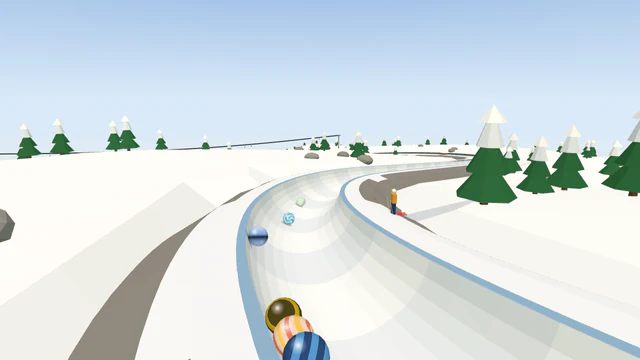
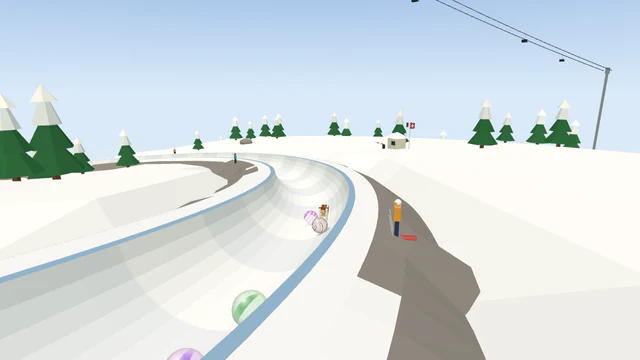
Portes du Soleil Run: its own layout; its records start again
Until now nearly the same track as Åre Run and Greenland Expedition. Its
classic start down from Avoriaz past the cows kept (the field now let go in
waves), a sweep across the border under the chairlift, down the Swiss Wall
from Chavanette (the big feature and signature), the hairpin, S-bends into the
Swiss village, the forest spiral and the run to the square. Full report
50/50; Wild 45. Data updates 2027-07-26. Off the known failures.

Claude-Session: https://claude.ai/code/session_011vSSkqNPL9kncfzrwF15wS

diff --git a/src/tracks/portes-du-soleil-run.js b/src/tracks/portes-du-soleil-run.js
@@ -4,8 +4,8 @@
 // border and down the Swiss Wall to a Swiss village square. Moses's design
 // ("New Track Designs", 6), built with the track kit.
 const {
-  track, plunge, straight, sBends, sweep, spiral, hairpin, splitter, runIn,
-  block, pileUp, parked, slalom, boost, moguls,
+  track, opening, plunge, straight, sBends, sweep, spiral, hairpin, runIn,
+  parked, slalom, moguls, peg, brake,
 } = require('../trackKit');
 
 module.exports = track({
@@ -18,42 +18,55 @@ module.exports = track({
   lighting: 'day',
   signature: 'The Swiss Wall',
   tvCameras: [
-    { section: 'The Swiss Wall', at: 0.8, side: 'left', distance: 6, height: 8 },
-    { section: 'Splitter', at: 0.8, side: 'left', distance: 6, height: 5 },
+    // (At the foot of the Wall, looking back up it at the field coming down.)
+    { section: 'Run to the hairpin', at: 0.2, side: 'left', distance: 6, height: 8 },
+    { section: 'Forest spiral', at: 0.6, side: 'left', distance: 6, height: 8 },
   ],
   billboardFrame: 'wood',
   // The gate in Avoriaz among its wood-clad buildings, the Dents du Midi on the horizon; the
   // finish in a Swiss village square, chalets with flower boxes round it and a church spire.
   start: { scenery: ['wood-clad'], gate: 'stalls', shots: { countdown: 'side', launch: 'overhead' } },
   designChanges: [
-    'A 50 m straight, "Run to the hairpin", before the hairpin: the recipe needs a braking zone before the one sharp bend.',
-    'Cows wandered onto the Avoriaz plunge (a pile-up before the slalom gates): without it the strongest marbles win too often, as on Åre Run.',
+    'Its own layout (Moses, 15 Nov 2026: World Tour re-layouts): down from Avoriaz past the cows, a sweep across the border under the chairlift, down the Swiss Wall from Chavanette (the big feature: the steepest stretch, low moguls down it), the hairpin, S-bends into the Swiss village, the forest spiral and the run to the square.',
+    'A straight, "Run to the hairpin", before the hairpin: the recipe needs a braking zone before the one sharp bend.',
+    'Cows wandered onto the Avoriaz plunge (a pile-up before the slalom gates): without it the strongest marbles win too often.',
   ],
   finish: { landmark: 'church', scenery: ['chalets'] },
+  // (The classic start: down from Avoriaz past the cows and through the gates; let go in jittered waves, a new
+  // order every race, as the front places won more without them.)
+  opening: opening('classic', {
+    costumes: { block: 'cow' },
+    names: { plunge: 'Avoriaz plunge' },
+    dress: { plunge: { scenery: ['wood-clad'], landmarks: [{ name: 'horse-sleigh', at: 0.5, side: 'right', distance: 20 }] } },
+    waves: { groups: 5, gap: 0.12, jitter: 0.1 },
+  }),
   sections: [
     {
-      name: 'Avoriaz plunge', shape: plunge(80, { grade: 0.6 }),
-      obstacles: [pileUp({ costume: 'cow', at: 0.42 }), slalom({ from: 0.55, to: 0.97, count: 6, loss: 0.3 })],
-      landmarks: [{ name: 'horse-sleigh', at: 0.5, side: 'right', distance: 12 }], scenery: ['wood-clad'],
+      name: 'Border sweep', shape: sweep({ side: 'right', radius: 80, degrees: 140, grade: 0.13 }), figures: ['skier', 'snowboarder', 'skier'],
+      billboards: 2, overhead: ['chairlift'], landmarks: [{ name: 'border-post', at: 0.5, side: 'left', distance: 18 }], scenery: ['pines'],
+      obstacles: [peg({ costume: 'cow', at: 0.3, line: 'left' }), peg({ costume: 'cow', at: 0.65, line: 'right' })],
     },
-    { name: 'Piste S-bends', shape: sBends({ first: 'right', radius: 75, degrees: 80, grade: 0.13 }), figures: ['skier', 'snowboarder', 'skier'], scenery: ['pines'], billboards: 1 },
-    { name: 'Splitter', shape: splitter({ side: 'right', balance: { tipOffset: 0.8, left: { drag: 0.42, scrub: 0.72 }, right: { drag: 1.42, scrub: 1.42 } } }), around: 'mountain-restaurant', scenery: ['pines'] },
+    { name: 'To Chavanette', shape: straight(40, { grade: 0.12 }), scenery: ['bare'] },
     {
-      name: 'Border sweep', shape: sweep({ side: 'left', radius: 85, degrees: 150, grade: 0.08 }), features: [boost({ at: 0.08 })],
-      billboards: 2, overhead: ['chairlift'], landmarks: [{ name: 'border-post', at: 0.5, side: 'right', distance: 10 }], scenery: ['pines'],
-    },
-    // (Not in the design: the recipe's braking zone needs a straight before the one sharp bend.)
-    { name: 'Run to the hairpin', shape: straight(50, { grade: 0.13 }), billboards: 1, scenery: ['pasture'] },
-    { name: 'Hairpin', shape: hairpin({ side: 'right' }), obstacles: [block({ costume: 'cow', line: 'high' })], scenery: ['pasture'] },
-    {
-      // The Swiss Wall (Le Mur Suisse): the steepest stretch after the start, low moguls down it.
-      name: 'The Swiss Wall', shape: plunge(120, { grade: 0.42, from: 0.16 }),
+      // The Swiss Wall (Le Mur Suisse): the track's big feature, the steepest stretch after the start, low moguls down it.
+      name: 'The Swiss Wall', shape: plunge(100, { grade: 0.42, from: 0.16 }),
       features: [moguls({ from: 0.4, to: 0.95, count: 8 })], figures: ['skier', 'skier'], scenery: ['bare'],
     },
-    { name: 'Forest spiral', shape: spiral({ side: 'right', radius: 45, grade: 0.18 }), figures: ['marmot'], scenery: ['pines'] },
+    // (Not in the design: the recipe's braking zone needs a straight before the one sharp bend.)
     {
-      name: 'Final plunge', shape: straight(90, { grade: 0.2 }),
-      obstacles: [parked({ costume: 'piste-groomer', at: 0.4, side: 'right', length: 8 })], scenery: ['chalets'],
+      name: 'Run to the hairpin', shape: straight(60, { grade: 0.13 }), scenery: ['pasture'], billboards: 1,
+      obstacles: [slalom({ from: 0.35, to: 0.7, count: 3, loss: 0.3 })],
+    },
+    { name: 'Hairpin', shape: hairpin({ side: 'left' }), scenery: ['pasture'] },
+    {
+      name: 'Village S-bends', shape: sBends({ first: 'right', radius: 70, degrees: 80, grade: 0.13 }), scenery: ['chalets'], billboards: 1,
+      obstacles: [peg({ costume: 'cow', at: 0.35, line: 'left' }), peg({ costume: 'cow', at: 0.7, line: 'right' })],
+    },
+    { name: 'Forest spiral', shape: spiral({ side: 'left', radius: 45, grade: 0.15 }), figures: ['marmot'], scenery: ['pines'] },
+    {
+      name: 'Village square run', shape: straight(75, { grade: 0.14 }), scenery: ['chalets'],
+      features: [brake({ at: 0.05, length: 10, drag: 0.02 })],
+      obstacles: [parked({ costume: 'piste-groomer', at: 0.3, side: 'right', length: 8 }), slalom({ from: 0.55, to: 0.9, count: 3, loss: 0.35 })],
     },
     { name: 'Finish', shape: runIn(), scenery: ['chalets'] },
   ],

diff --git a/test/trackKit.test.js b/test/trackKit.test.js
@@ -56,7 +56,7 @@ test('every kit track opens with Bobsleigh Run\'s starting ramp, gate, channel a
     // (The staggered drop and the varied starts let the field go in waves: their funnel has that one setting more.
     // Any other opening only where its track asks for them, listed here: Nevada Drag Strip's crest start.)
     const { waves, ...rest } = funnel;
-    if (waves) assert.ok(['staggered-drop', 'clean-drop', 'peg-drop', 'pipe-drop', 'rolling-start', 'chicane-start', 'rumble-start'].includes(t.physics.kit.opening) || ['nevada-drag-strip', 'hudson-highlands-run', 'iguazu-devils-throat', 'chao-phraya-dawn-spiral', 'blyde-potholes-spiral', 'kings-canyon-lost-city', 'huashan-plank-walk', 'etna-valle-del-bove', 'tianmen-heavens-gate', 'sunken-ruins', 'are-run', 'greenland-expedition', 'dubai-twister', 'rio-jungle-rumble', 'china-wall-twister', 'baqueira-beret-run',  'crystal-grotto', 'moon-base'].includes(t.slug), `${t.slug}: waves at the gate`);
+    if (waves) assert.ok(['staggered-drop', 'clean-drop', 'peg-drop', 'pipe-drop', 'rolling-start', 'chicane-start', 'rumble-start'].includes(t.physics.kit.opening) || ['nevada-drag-strip', 'hudson-highlands-run', 'iguazu-devils-throat', 'chao-phraya-dawn-spiral', 'blyde-potholes-spiral', 'kings-canyon-lost-city', 'huashan-plank-walk', 'etna-valle-del-bove', 'tianmen-heavens-gate', 'sunken-ruins', 'are-run', 'greenland-expedition', 'dubai-twister', 'rio-jungle-rumble', 'china-wall-twister', 'baqueira-beret-run', 'portes-du-soleil-run',  'crystal-grotto', 'moon-base'].includes(t.slug), `${t.slug}: waves at the gate`);
     if (!['funnel-drop', 'staggered-drop'].includes(t.physics.kit.opening)) assert.deepEqual(rest, tmFunnel);
     assert.deepEqual(t.physics.gate, bob.physics.gate);
     assert.equal(t.physics.collisions, true);

diff --git a/test/samenessAllTracks.test.js b/test/samenessAllTracks.test.js
@@ -34,7 +34,6 @@ const KNOWN = {
   'table-mountain-run': ['opening', 'opening-kind', 'layout'],
   // World Tour.
 
-  'portes-du-soleil-run': ['layout'],
 
   'amazon-water-run': ['layout'],
   // Grand Prix (one design: Dubai's; Stockholm, Lagos, Istanbul, Sydney, Nairobi, Delhi, Sahara and Wyrmwood Hollow have their own since 6–7 Nov 2026).

diff --git a/docs/06-decisions.md b/docs/06-decisions.md
@@ -4,7 +4,7 @@
 
 | Date | Decision | Why |
 |---|---|---|
-| 2026-11-15 | **World Tour re-layouts** (Moses, 21:20: every World Tour pack track still on the sameness test's known failures gets its own layout and opening, with a signature feature from the real place, as the Grand Prix re-layouts; then seven new World Tour tracks to fill the pack to 20). Each keeps its name, slug and look; a `--relayout` data update starts its records again (`tracks.records_since`), and a `<slug>-to-world-tour` update sets its new wildness (the pack script now takes a kit track with no series marker as World Tour, as the server does). Done: **Åre Run** (Wild 43, was Easy 29: a rumble start down the summit moguls, the hairpin, a sweep under the gondola, down the World Championship slope as the big feature, the funicular spiral; `2027-07-18-…`), **Greenland Expedition** (Wild 44: a snowdrift start, the sand-trap opening, past the sled dogs, the ice cave as the big feature, a long steep drop inside the glacier; `2027-07-19-…`), **Park City Run** (Wild 37: a rolling start from the lift station, down the old silver mine's shaft as the big feature; `2027-07-20-…`), **Dubai Twister** (Wild 39: a sand-trap start through the dunes, up a red dune and down its face, the Twister spiral round the twisting tower as the big feature; the falcon no longer swoops at the hairpin, as knocked marbles fell too far behind; `2027-07-21-…`), **Rio Jungle Rumble** (Extreme 47: a rumble start down the jungle path, the Selarón Steps, the turn right round Guanabara Bay under the cable car as the big feature; `2027-07-22-…`), **China Wall Twister** (Wild 40: a tunnel-launch start through a gate in the Wall, along the Wall and down its steps, the dragon drop as the big feature; `2027-07-23-…`), **Baqueira-Beret Run** (Wild 45: a rolling start and a wide turn across the open bowl, the bell-tower spiral, the Escornacrabes couloir as the big feature; `2027-07-24-…`), **Paris Eiffel Tower Run** (Easy 32: its classic start kept, down the Rue Lepic's cobbles, a spiral right round the Arc de Triomphe on the Étoile as the big feature; `2027-07-25-…`). Paris Eiffel Tower Run and Portes du Soleil Run keep the two classic openings the World Tour allows. (A pile-up at the gate spreads the field by about 5 s before the first bend; the re-laid tracks without one pass the report's first-to-last gap more easily.) | The old World Tour tracks were built from one design and raced alike (several pairs identical, nine with the same opening). |
+| 2026-11-15 | **World Tour re-layouts** (Moses, 21:20: every World Tour pack track still on the sameness test's known failures gets its own layout and opening, with a signature feature from the real place, as the Grand Prix re-layouts; then seven new World Tour tracks to fill the pack to 20). Each keeps its name, slug and look; a `--relayout` data update starts its records again (`tracks.records_since`), and a `<slug>-to-world-tour` update sets its new wildness (the pack script now takes a kit track with no series marker as World Tour, as the server does). Done: **Åre Run** (Wild 43, was Easy 29: a rumble start down the summit moguls, the hairpin, a sweep under the gondola, down the World Championship slope as the big feature, the funicular spiral; `2027-07-18-…`), **Greenland Expedition** (Wild 44: a snowdrift start, the sand-trap opening, past the sled dogs, the ice cave as the big feature, a long steep drop inside the glacier; `2027-07-19-…`), **Park City Run** (Wild 37: a rolling start from the lift station, down the old silver mine's shaft as the big feature; `2027-07-20-…`), **Dubai Twister** (Wild 39: a sand-trap start through the dunes, up a red dune and down its face, the Twister spiral round the twisting tower as the big feature; the falcon no longer swoops at the hairpin, as knocked marbles fell too far behind; `2027-07-21-…`), **Rio Jungle Rumble** (Extreme 47: a rumble start down the jungle path, the Selarón Steps, the turn right round Guanabara Bay under the cable car as the big feature; `2027-07-22-…`), **China Wall Twister** (Wild 40: a tunnel-launch start through a gate in the Wall, along the Wall and down its steps, the dragon drop as the big feature; `2027-07-23-…`), **Baqueira-Beret Run** (Wild 45: a rolling start and a wide turn across the open bowl, the bell-tower spiral, the Escornacrabes couloir as the big feature; `2027-07-24-…`), **Paris Eiffel Tower Run** (Easy 32: its classic start kept, down the Rue Lepic's cobbles, a spiral right round the Arc de Triomphe on the Étoile as the big feature; `2027-07-25-…`), **Portes du Soleil Run** (Wild 45: its classic start kept, now with waves, the Swiss Wall from Chavanette as the big feature; `2027-07-26-…`). Paris Eiffel Tower Run and Portes du Soleil Run keep the two classic openings the World Tour allows. (A pile-up at the gate spreads the field by about 5 s before the first bend; the re-laid tracks without one pass the report's first-to-last gap more easily.) | The old World Tour tracks were built from one design and raced alike (several pairs identical, nine with the same opening). |
 | 2026-11-15 | **Seven more Blocks 1 tracks: the Blocks 1 pack filled to 20** (Moses, 13:38: the game-world look, our own voxel worlds with retro-game touches, never another game's names, creatures, textures or falling pieces; same rules as the Canyons and Peaks; 2 Easy, 3 Wild, 2 Extreme). Built, each pushed switched off in the Blocks 1 pack, not free: **Mushroom Grove** (Easy 24: a drop off a giant mushroom's cap), **Sunken Ruins** (Easy 17: a banked turn round a sunken dome), **Clockwork Works** (Wild 39: a splitter round a giant gear), **Crystal Grotto** (Wild 44: a spiral round a crystal spire), **Jungle Ruins** (Wild 45: a waterfall drop through falling water), **Moon Base** (Extreme 60: a 66 m drop over a crater's rim), **Neon Grid** (Extreme 57: a loop over the glowing grid, 69 overtakes); data updates `2027-07-11-…` to `2027-07-17-…`; seven new worlds, `kitLandmarksBlockWorlds.js` and three Blocks 1 start types (`portal-gate`, `block-pyramid`, `gear-tower`). On phones a Block Series cube pillar is now at most 8 cubes (each taller), as Crystal Grotto's tall pillars went over the triangle budget; looks only. Status: project doc `claude/blocks-1-seven-more-status.md`. Waiting for Moses's deploy (with the Canyons and Peaks), then his look at each preview before switching on. | With them the Blocks 1 pack has 20 besides the free Spawn Point and can go on sale. |
 | 2026-11-15 | **Six more Peaks tracks: the Peaks pack filled to 20** (Moses, 09:45: same rules as the six Canyons, and 65+ overtakes on a loop track; 2 Easy, 2 Wild, 2 Extreme; six famous mountains not yet in the series, each with two signature features, unlike the World Tour's alpine resorts). Built, each pushed switched off in the Peaks pack, not free: **Half Dome Granite Slabs** (Easy 31: a drop down the granite slabs below the face), **Huayna Picchu Terraces** (Extreme 48: a splitter round a terraced hill), **Huashan Plank Walk** (Easy 20: a dramatic banked turn round the plank walk's cliff), **Eiger North Face** (Wild 43: a banked spiral round a window pillar), **Etna Valle del Bove** (Extreme 50: a drop into the Valle del Bove), **Tianmen Heaven's Gate** (Wild 41: a loop under the great arch, 69 overtakes); data updates `2027-07-05-…` to `2027-07-10-…`; six palettes and `kitLandmarksPeak2.js`; the pack script knows Peaks. Huayna came out Extreme and Huashan Easy, Etna Extreme and Tianmen Wild (planned otherwise); the mix stays 2/2/2. Status: project doc `claude/peaks-six-more-status.md`. Waiting for Moses's deploy (with the Canyons), then his look at each preview before switching on. | With them the Peaks pack has 20 besides the free Everest Icefall Run and can go on sale. |
 | 2026-11-15 | **A coaster track can have a loop** (Kings Canyon Lost City, the first): over the loop's span the coaster's rails, spine, ties and towers stop (3 m either side), as the loop draws its own track and steel along its own path; before, they ran along the ground under it, 64 m with no rim under the rails, and blocked the follow camera. The rails check (`railGaps`) now finds each rail line's first point along the whole track (by height too), so lines that start after a loop are checked where they are. Looks only: race results unchanged. | A loop in a canyon is the Canyons series' loop; the coaster kit had never met one. |

diff --git a/docs/README.md b/docs/README.md
@@ -8,7 +8,7 @@
 
 **Where it stands:**
 - **Website:** live at marblespins.com (Vercel builds every push to `Main`; production is at `548aeb8`, 15 Nov). Soft start (social media, a daily set of videos, 10–20 invited test pilots) since the week of 26 Oct. **Official launch 1 Dec 2026**, with the Holiday Season, the season pass and the apps. GA4 on since 31 Oct (after cookie consent); the Meta Pixel off.
-- **Tracks: 152 live in ten series** (World Tour, Grand Prix, Coasters, Canyons, Blocks, Track and Field, Rivers, Peaks, Pinball, Arcade), since the 9 motorsport Grand Prix tracks were switched on on 13 Nov; 191 in the database. **Switched off, waiting for Moses:** five more Rivers tracks (on the server since 13 Nov: Yukon Five Finger Run, Arno Old Bridge Run, Chao Phraya Dawn Spiral, Hudson Highlands Run, Iguazú Devil's Throat) and six more Canyons tracks (on Main, **waiting for the server deploy**: Bryce Hoodoo Run, Blyde Potholes Spiral, Taroko Marble Gorge, Samaria Iron Gates, Kings Canyon Lost City, the first coaster track with a loop, and Sumidero Christmas Falls; data updates `2027-06-29-…` to `2027-07-04-…`) and six more Peaks tracks (on Main, **waiting for the same deploy**: Half Dome Granite Slabs, Huayna Picchu Terraces, Huashan Plank Walk, Eiger North Face, Etna Valle del Bove, Tianmen Heaven's Gate; data updates `2027-07-05-…` to `2027-07-10-…`) and seven more Blocks 1 tracks (on Main, **waiting for the same deploy**: Mushroom Grove, Sunken Ruins, Clockwork Works, Crystal Grotto, Jungle Ruins, Moon Base, Neon Grid; data updates `2027-07-11-…` to `2027-07-17-…`); World Tour re-layouts (on Main, **waiting for the same deploy**; their records start again): Åre Run, Greenland Expedition, Park City Run, Dubai Twister, Rio Jungle Rumble, China Wall Twister, Baqueira-Beret Run, Paris Eiffel Tower Run (`2027-07-18-…` to `2027-07-25-…`). Moses deploys Canyons, Peaks, Blocks 1 and the World Tour work together. The 31 holiday tracks are switched on but hidden and closed until 1 Dec 00:00 Swedish time (183 live then).
+- **Tracks: 152 live in ten series** (World Tour, Grand Prix, Coasters, Canyons, Blocks, Track and Field, Rivers, Peaks, Pinball, Arcade), since the 9 motorsport Grand Prix tracks were switched on on 13 Nov; 191 in the database. **Switched off, waiting for Moses:** five more Rivers tracks (on the server since 13 Nov: Yukon Five Finger Run, Arno Old Bridge Run, Chao Phraya Dawn Spiral, Hudson Highlands Run, Iguazú Devil's Throat) and six more Canyons tracks (on Main, **waiting for the server deploy**: Bryce Hoodoo Run, Blyde Potholes Spiral, Taroko Marble Gorge, Samaria Iron Gates, Kings Canyon Lost City, the first coaster track with a loop, and Sumidero Christmas Falls; data updates `2027-06-29-…` to `2027-07-04-…`) and six more Peaks tracks (on Main, **waiting for the same deploy**: Half Dome Granite Slabs, Huayna Picchu Terraces, Huashan Plank Walk, Eiger North Face, Etna Valle del Bove, Tianmen Heaven's Gate; data updates `2027-07-05-…` to `2027-07-10-…`) and seven more Blocks 1 tracks (on Main, **waiting for the same deploy**: Mushroom Grove, Sunken Ruins, Clockwork Works, Crystal Grotto, Jungle Ruins, Moon Base, Neon Grid; data updates `2027-07-11-…` to `2027-07-17-…`); World Tour re-layouts (on Main, **waiting for the same deploy**; their records start again): Åre Run, Greenland Expedition, Park City Run, Dubai Twister, Rio Jungle Rumble, China Wall Twister, Baqueira-Beret Run, Paris Eiffel Tower Run, Portes du Soleil Run (`2027-07-18-…` to `2027-07-26-…`). Moses deploys Canyons, Peaks, Blocks 1 and the World Tour work together. The 31 holiday tracks are switched on but hidden and closed until 1 Dec 00:00 Swedish time (183 live then).
 - **Server:** last deployed **13 Nov 2026, ~23:00** (code fingerprint `7abad7e4c43d`, Main `7a3342d`; 57 tables, 527 columns): the Stripe webhook's refusals logged and its readiness on `/health`. The week's other deploys (12 Nov `b5cc113debdb` and `bc1bd7ff096f`; 13 Nov ~14:20 `8d7a15a7631e`, ~18:30 `6be622039502`, ~21:45 `c25a2aa05c5b`) brought wildness and track packs, pack sales, the free set of 15, the motorsport Grand Prix tracks, where players come from and the five Rivers. Main is at fingerprint `5636207a9263`: the next deploy brings only the six Canyons tracks.
 - **Wildness and track packs:** every live track is Easy / Wild / Extreme (from 1,000 report races; 68 / 61 / 23 of the 152), shown as a badge and a picker filter. 11 packs (one per series; Pinball and Arcade separate; Blocks 1 and 2), **$7.99, or 1,990 coins + $5.99**, on the website (Stripe, test mode), Google Play and the App Store. **Free set: 15 tracks**, one or two per series. **Complete packs** (20 live besides the free ones): Blocks 2 and Grand Prix; Rivers and Canyons have 20 once their new tracks are on. **Locking and selling are off** (`TRACK_PACKS`); only complete packs lock when it is on. The website keeps saying every track is free until `PACKS_LIVE` (`client/src/shared/packWording.js`). First end-to-end test purchase (Grand Prix pack, Stripe test mode) worked on 13 Nov. Still to do: the store products, the pack terms of sale (draft at `/preview/legal-packs`), Moses's go.
 - **Apps:** iPhone and Android (Capacitor). **Android 1.0.0 (5) in Play internal testing, tested by Moses on 13 Nov:** hit and bump sounds work, the ceremony song stops (the slow-phone and sound fixes of 11–12 Nov confirmed). `client/app-version.json` and the iPhone project at 1.0.0 (5); the next build is 6 (`npm run app:version -- build`). **Store submission planned for 16–20 Nov.**
